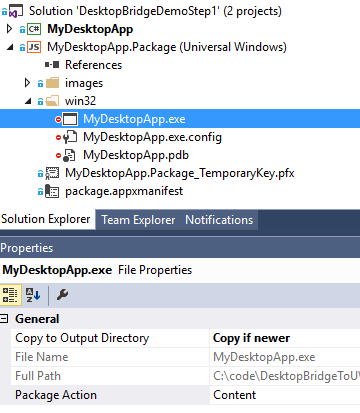
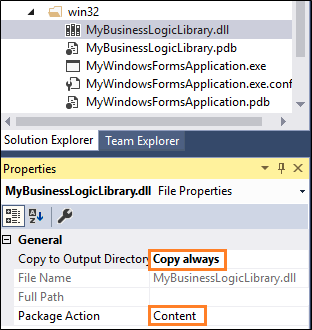
Merged PR 2845: Merge normesta-master-tweaks to master

diff --git a/windows-apps-src/porting/desktop-to-uwp-packaging-dot-net.md b/windows-apps-src/porting/desktop-to-uwp-packaging-dot-net.md
@@ -64,6 +64,37 @@ Add the binaries directly to the packaging project.
    </Target>
    ```
 
+## Add binaries into the Windows app package
+
+Configure each binary so that they get copied into the final output package.
+
+1. In Visual Studio, open the **Properties** window and for each binary, set the **Package Action** property to **Content** and the **Copy to Output Directory** property to **Copy always**.
+
+   ![binary properties](images/desktop-to-uwp/net-3.png)
+
+   If your binary subfolder contains alot of desktop application binary files, you can use wildcard expressions to specify which files you want to include. You'll have to open the .jsproj file in a text editor to do this. Here's an example:
+
+   ```xml
+   <Content Include="win32\*.dll">
+     <CopyToOutputDirectory>PreserveNewest</CopyToOutputDirectory>
+   </Content>
+   <Content Include="win32\*.exe">
+     <CopyToOutputDirectory>PreserveNewest</CopyToOutputDirectory>
+   </Content>
+   <Content Include="win32\*.config">
+     <CopyToOutputDirectory>PreserveNewest</CopyToOutputDirectory>
+   </Content>
+   <Content Include="win32\*.pdb">
+     <CopyToOutputDirectory>PreserveNewest</CopyToOutputDirectory>
+   </Content>
+   ```
+
+   >[!NOTE]
+   >If you want to avoid committing binary files to your source code repository, you can use the .gitignore file to exclude all of the files in your desktop application binary subfolder.
+
+
+
+
 ## Modify the package manifest
 
 The packaging project contains a file that describes the settings of your package. By default, this file describes a UWP app, so you'll have to modify it so that the system understands that your package includes a desktop application that runs in full trust.  
